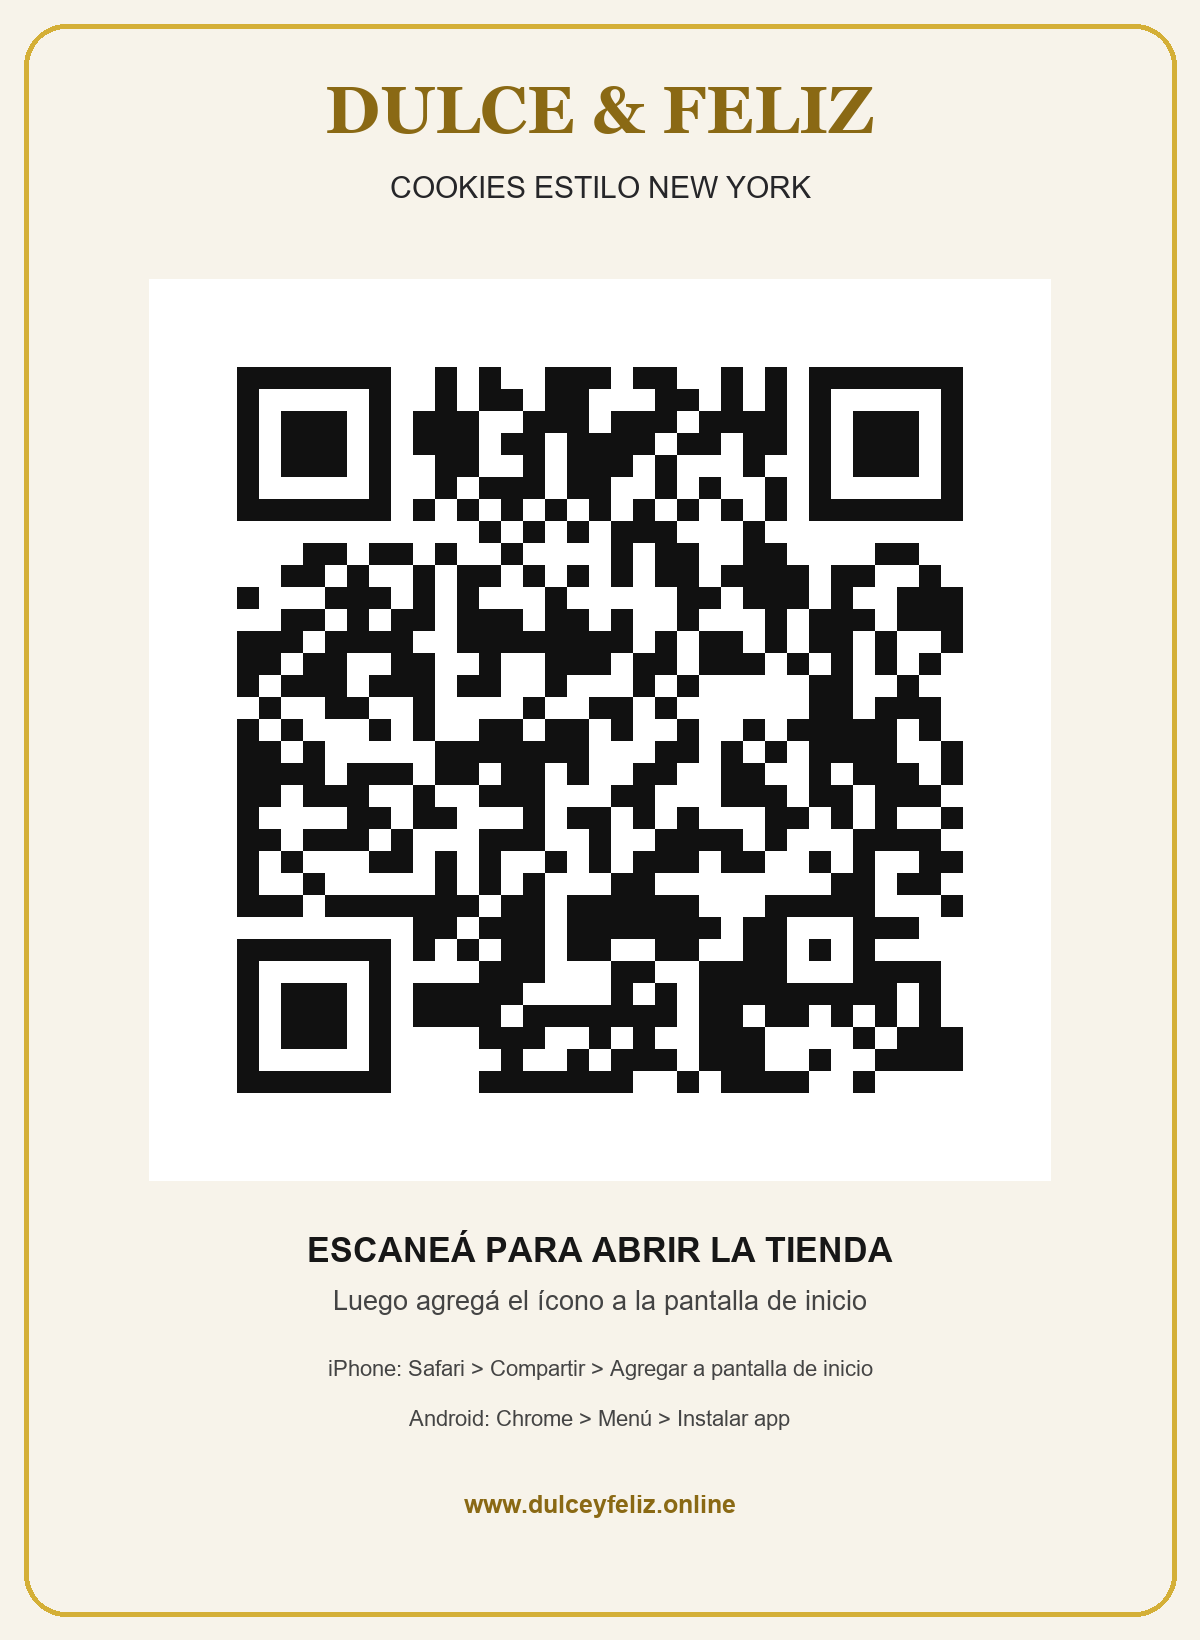
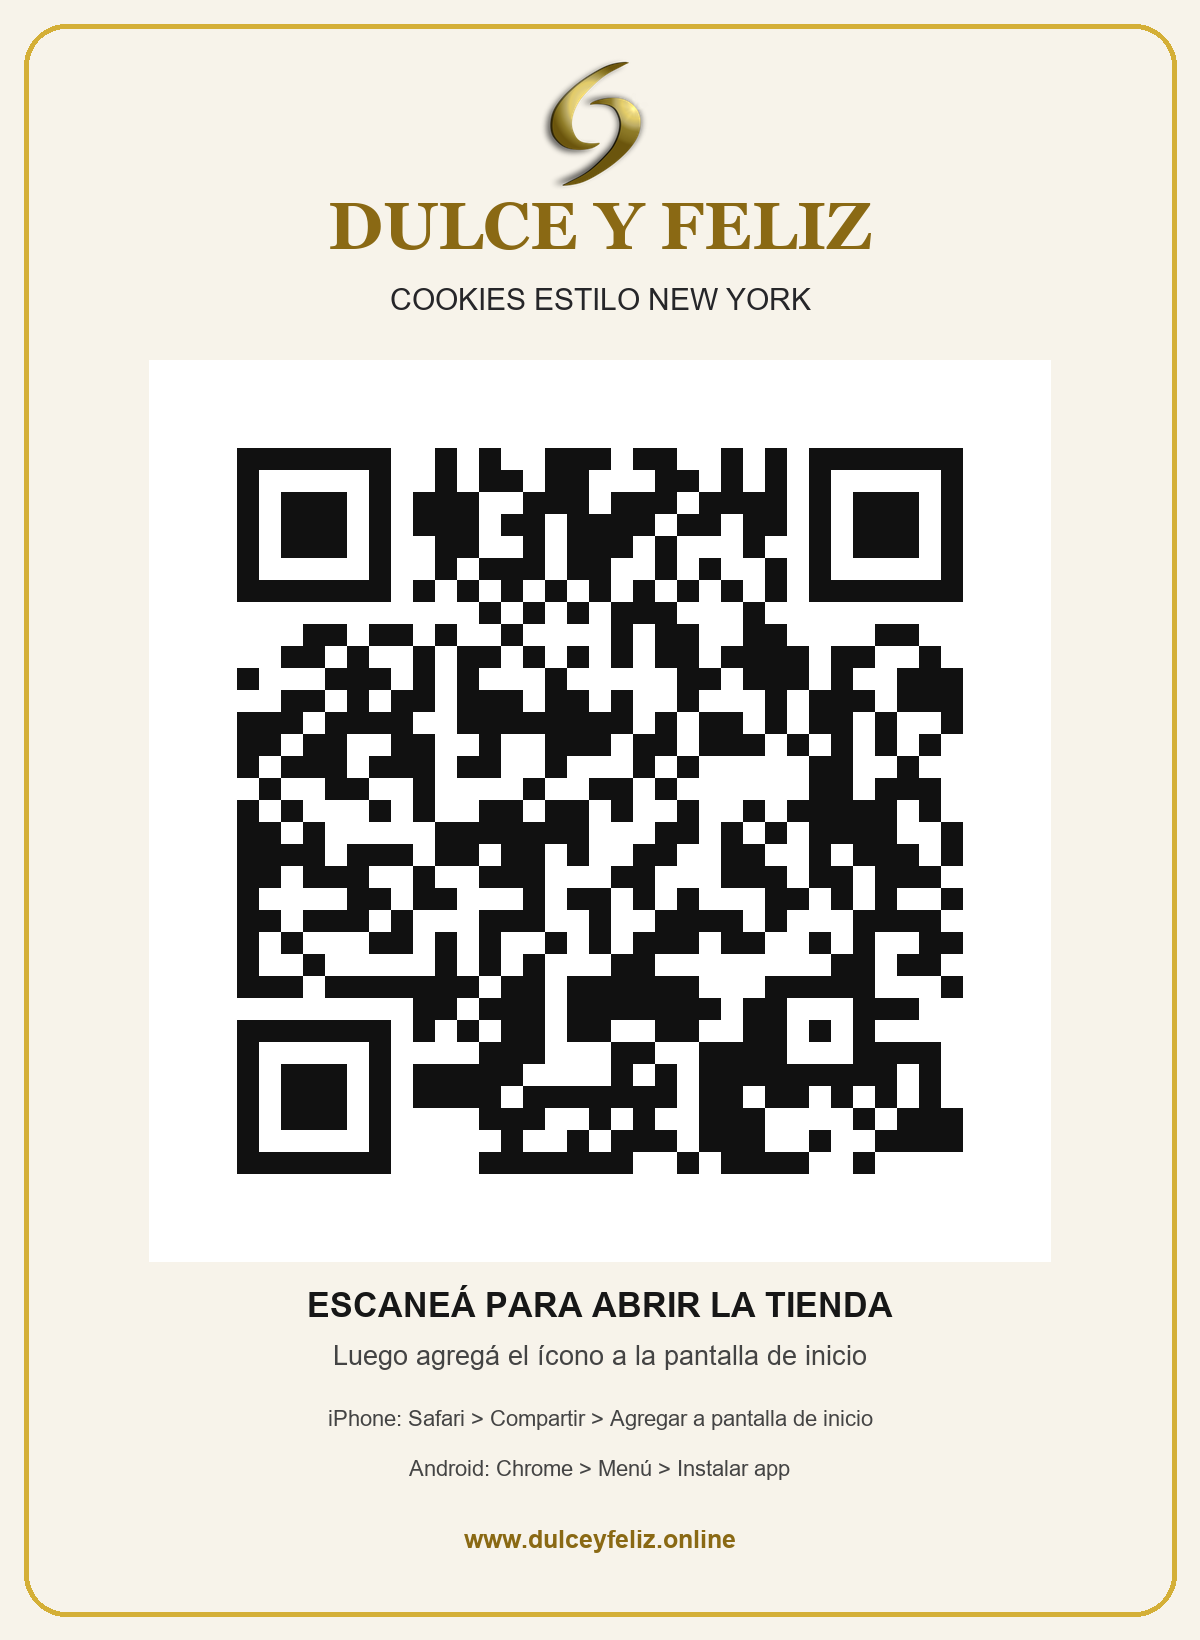
Use Dulce y Feliz brand on install QR
Add the brand icon to the printable QR poster and use the correct y spelling in the installed app name.

Changed region(s): [[0.185, 0.2177, 0.8017, 0.7152], [0.2467, 0.7463, 0.74, 0.964], [0.2775, 0.0311, 0.74, 0.1866]]

diff --git a/index.html b/index.html
@@ -7,7 +7,7 @@
   <meta name="description" content="Colección premium y clásica de cookies gourmet con armado de caja personalizado y envío por WhatsApp." />
   <meta name="theme-color" content="#0B0B0C" />
   <meta name="apple-mobile-web-app-capable" content="yes" />
-  <meta name="apple-mobile-web-app-title" content="Dulce & Feliz" />
+  <meta name="apple-mobile-web-app-title" content="Dulce y Feliz" />
   <link rel="icon" type="image/png" href="Isotipo Sin fondo.png" />
   <link rel="apple-touch-icon" sizes="180x180" href="/icon-180.png" />
   <link rel="manifest" href="/manifest.webmanifest" />
